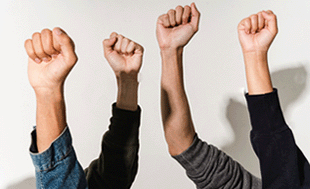
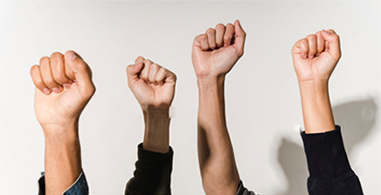
Built services section for desktop

diff --git a/index.html b/index.html
@@ -34,6 +34,56 @@
 </div>
 <img src = "Images/smallScreenPattern.png" alt= "A banner photo of three kids." class="banner-pattern">
 <img src = "Images/threeTeenBoysLarge.png" class="banner-img">
+
+</header>
+
+<main>
+<section class="services-section">
+
+<div>
+    <img src = "Images/ladyAndChild.png" class="banner-img">
+    <h3 class ="goldColloredWords services-section-header">YOUTH BUILDERS PROGRAM</h3>
+<ul>
+    <li>Growth mindset activities</li>
+    <li>Educational and recreational activities</li>
+    <li>Stop the violence campaign</li>
+    <li>Community Service Credit</li>
+</ul>
+</div>
+
+<div>
+    <img src = "Images/twoTeenBoys.png" class="banner-img">
+    <h3 class ="goldColloredWords services-section-header">COMPUTER LAB AND<br>RESOURCE LIBRARY</h3>
+    <ul>
+        <li>Work readiness and soft skill development</li>
+        <li>Online computer access to resourceful links, and self-help training materials.</li>
+    </ul>
+</div>
+
+
+<div>
+    <img src = "Images/taco.png" class="banner-img">
+    <h3 class ="goldColloredWords services-section-header">FOOD AND CLOTHING<br>ASSISTANCE</h3>
+    <ul>
+        <li>Supplying food and clothing to men, women, and children in need.</li>
+        <li>Food delivery available to the elderly (65 and older) and disabled individuals.</li>
+    </ul>
+</div>
+
+
+<div>
+    <img src = "Images/fistsUp.png" class="banner-img">
+    <h3 class ="goldColloredWords services-section-header">SELF EMPOWERMENT MEETINGS</h3>
+    <ul>
+        <li>Self improvement and community engagement skills.</li>
+        <li>Connecting people to available programs that offer pathway opportunities.</li>
+    </ul>
+</div>
+
+
+</section>
+
+</main>
  
 </header>
 

diff --git a/style.css b/style.css
@@ -137,6 +137,61 @@ flex-direction: column;
 
 /* ================================================= SERVICES SECTION ================================================= */
 
+.services-section{
+    display: grid;
+    grid-template-columns: repeat(4, 1fr);
+    width:100%;
+    background: red;
+    grid-gap:0;
+}
+
+.services-section div{
+    width:100%;
+    background:black;
+}
+
+.services-section div img{
+    width:100%;
+    transition:.3s;
+}
+
+.services-section div img:hover{
+    transform: scale(1.2);
+}
+
+.services-section-header{
+    padding:30px;
+    font-weight: 900;
+    font-size:16px;
+    text-align: center;
+}
+
+.services-section ul{
+    color:white;
+    padding:30px;
+    padding-top:0px;
+    font-size:14px;
+    font-weight: bold;
+    list-style: none;
+}
+
+li::before {
+    content: '';
+    background:#b89d0e;
+    display: inline-block;
+    width: .5em;
+    height:.5em;
+    border-radius: 100%;
+    margin-right: 15px;
+  }
+
+.services-section ul li{
+    padding: 10px;
+}
+
+
+
+
 /* ================================================= PURPOSE SECTION ================================================= */
 
 
